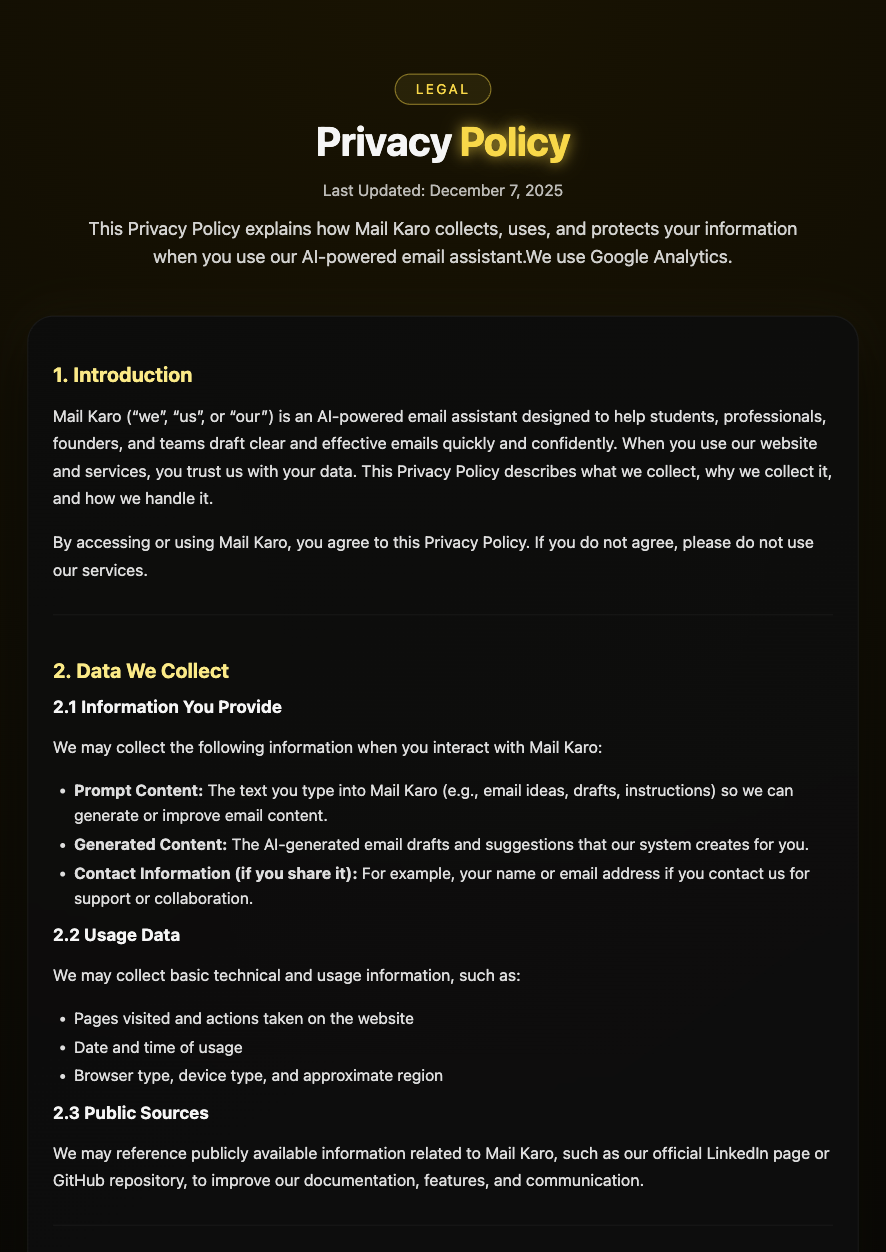
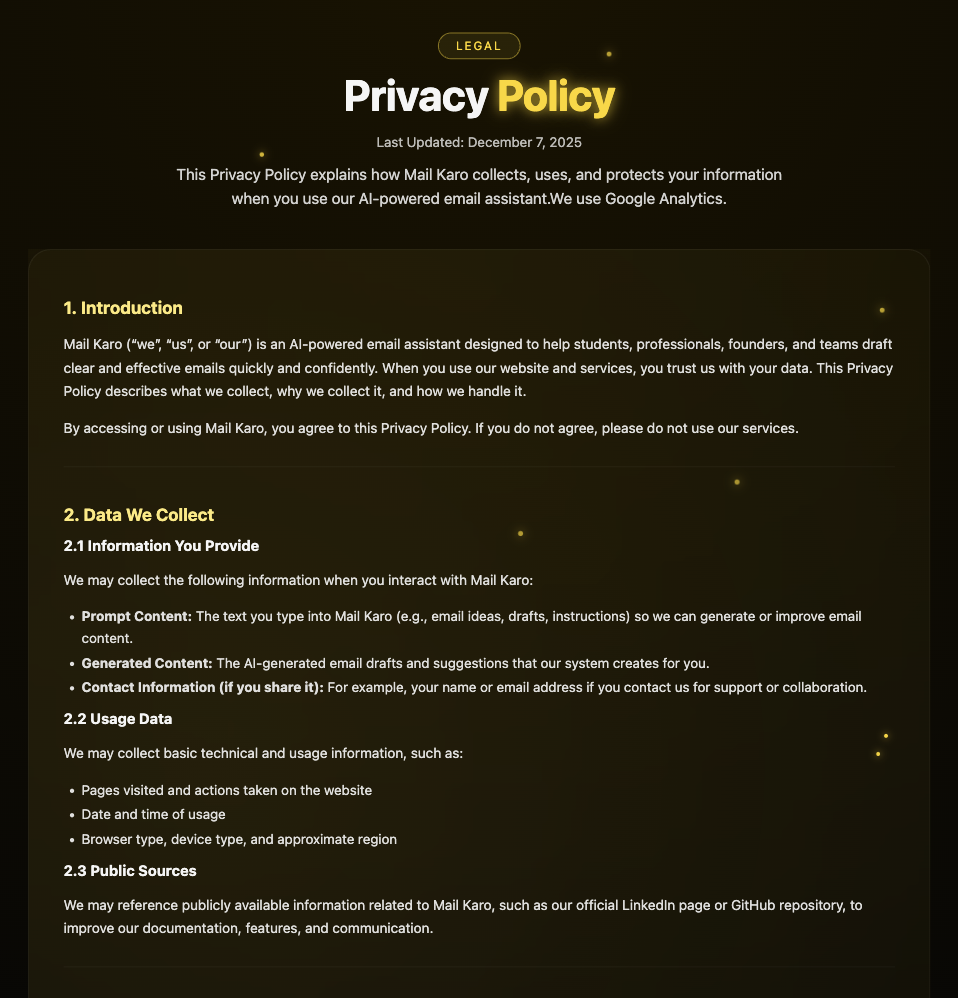
improvement(ui):add glowy bg and spark in terms and policy page

Changed region(s): [[0.0609, 0.497, 0.9142, 0.9629], [0.0609, 0.2796, 0.9447, 0.4659], [0.1219, 0.0311, 0.8837, 0.2174]]

diff --git a/All-pages-js/privacyPolicy.js b/All-pages-js/privacyPolicy.js
@@ -22,6 +22,29 @@ document.addEventListener("DOMContentLoaded", () => {
   }
 });
 
+// ================= YELLOW PARTICLES (FROM HERO) =================
+function addYellowParticles(targetSelector, count = 30) {
+  const target = document.querySelector(targetSelector);
+  if (!target) return;
+
+  target.style.position = "relative";
+
+  for (let i = 0; i < count; i++) {
+    const spark = document.createElement("div");
+    spark.className = "spark";
+
+    spark.style.left = Math.random() * 100 + "%";
+    spark.style.top = Math.random() * target.scrollHeight + "px";
+    spark.style.animationDuration = 3 + Math.random() * 5 + "s";
+
+    target.appendChild(spark);
+  }
+}
+
+window.addEventListener("DOMContentLoaded", () => {
+  addYellowParticles("#contact-particle-area", 30);
+});
+
 // Set dynamic year in footer
 document.addEventListener("DOMContentLoaded", () => {
   const yearSpan = document.getElementById("year");

diff --git a/All-pages-css/privacyPolicy.css b/All-pages-css/privacyPolicy.css
@@ -262,3 +262,40 @@
   }
 
 }
+
+/* ================= HERO YELLOW BACKGROUND (REUSED) ================= */
+.yellow-glow-bg {
+  position: relative;
+  overflow: hidden;
+  background:
+    radial-gradient(circle at 20% 20%, rgba(255, 215, 0, 0.05), transparent 60%),
+    radial-gradient(circle at 80% 80%, rgba(255, 215, 0, 0.07), transparent 60%);
+}
+
+/* ================= FLOATING YELLOW PARTICLES ================= */
+.spark {
+  position: absolute;
+  width: 4px;
+  height: 4px;
+  background: #FFD700;
+  border-radius: 50%;
+  opacity: 0.8;
+  box-shadow: 0 0 8px #FFD700;
+  animation: moveSpark linear infinite;
+  pointer-events: none;
+}
+
+@keyframes moveSpark {
+  0% {
+    transform: translate(0, 0) scale(1);
+    opacity: 1;
+  }
+  50% {
+    transform: translate(20px, -20px) scale(1.4);
+    opacity: 0.6;
+  }
+  100% {
+    transform: translate(0, 0) scale(1);
+    opacity: 1;
+  }
+}

diff --git a/All-pages-html/terms-of-service.html b/All-pages-html/terms-of-service.html
@@ -10,7 +10,7 @@
   <link rel="stylesheet" href="../All-pages-css/privacyPolicy.css" />
 </head>
 
-<body class="mk-privacy-bg">
+<body class="mk-privacy-bg" id="contact-particle-area">
   <!-- Navigation bar -->
 
   <main class="mk-privacy-page">
@@ -29,9 +29,9 @@
       </p>
     </header>
 
-    <section class="mk-privacy-layout">
+    <section class="mk-privacy-layout yellow-glow-bg" id="contact-particle-area">
       <!-- Main content -->
-      <article class="mk-privacy-content">
+      <article class="mk-privacy-content yellow-glow-bg">
 
         <section id="introduction" class="mk-privacy-block">
           <h2>1. Introduction</h2>

diff --git a/All-pages-html/privacyPolicy.html b/All-pages-html/privacyPolicy.html
@@ -11,7 +11,7 @@
   <link rel="stylesheet" href="../All-pages-css/privacyPolicy.css" />
 </head>
 
-<body class="mk-body mk-privacy-bg">
+<body class="mk-body mk-privacy-bg" id="contact-particle-area">
 
   <!-- Navigation bar -->
 
@@ -30,9 +30,9 @@
       </p>
     </header>
 
-    <section class="mk-privacy-layout">
+    <section class="mk-privacy-layout yellow-glow-bg" id="contact-particle-area">
       <!-- Main content -->
-      <article class="mk-privacy-content">
+      <article class="mk-privacy-content yellow-glow-bg">
 
         <section id="introduction" class="mk-privacy-block">
           <h2>1. Introduction</h2>
